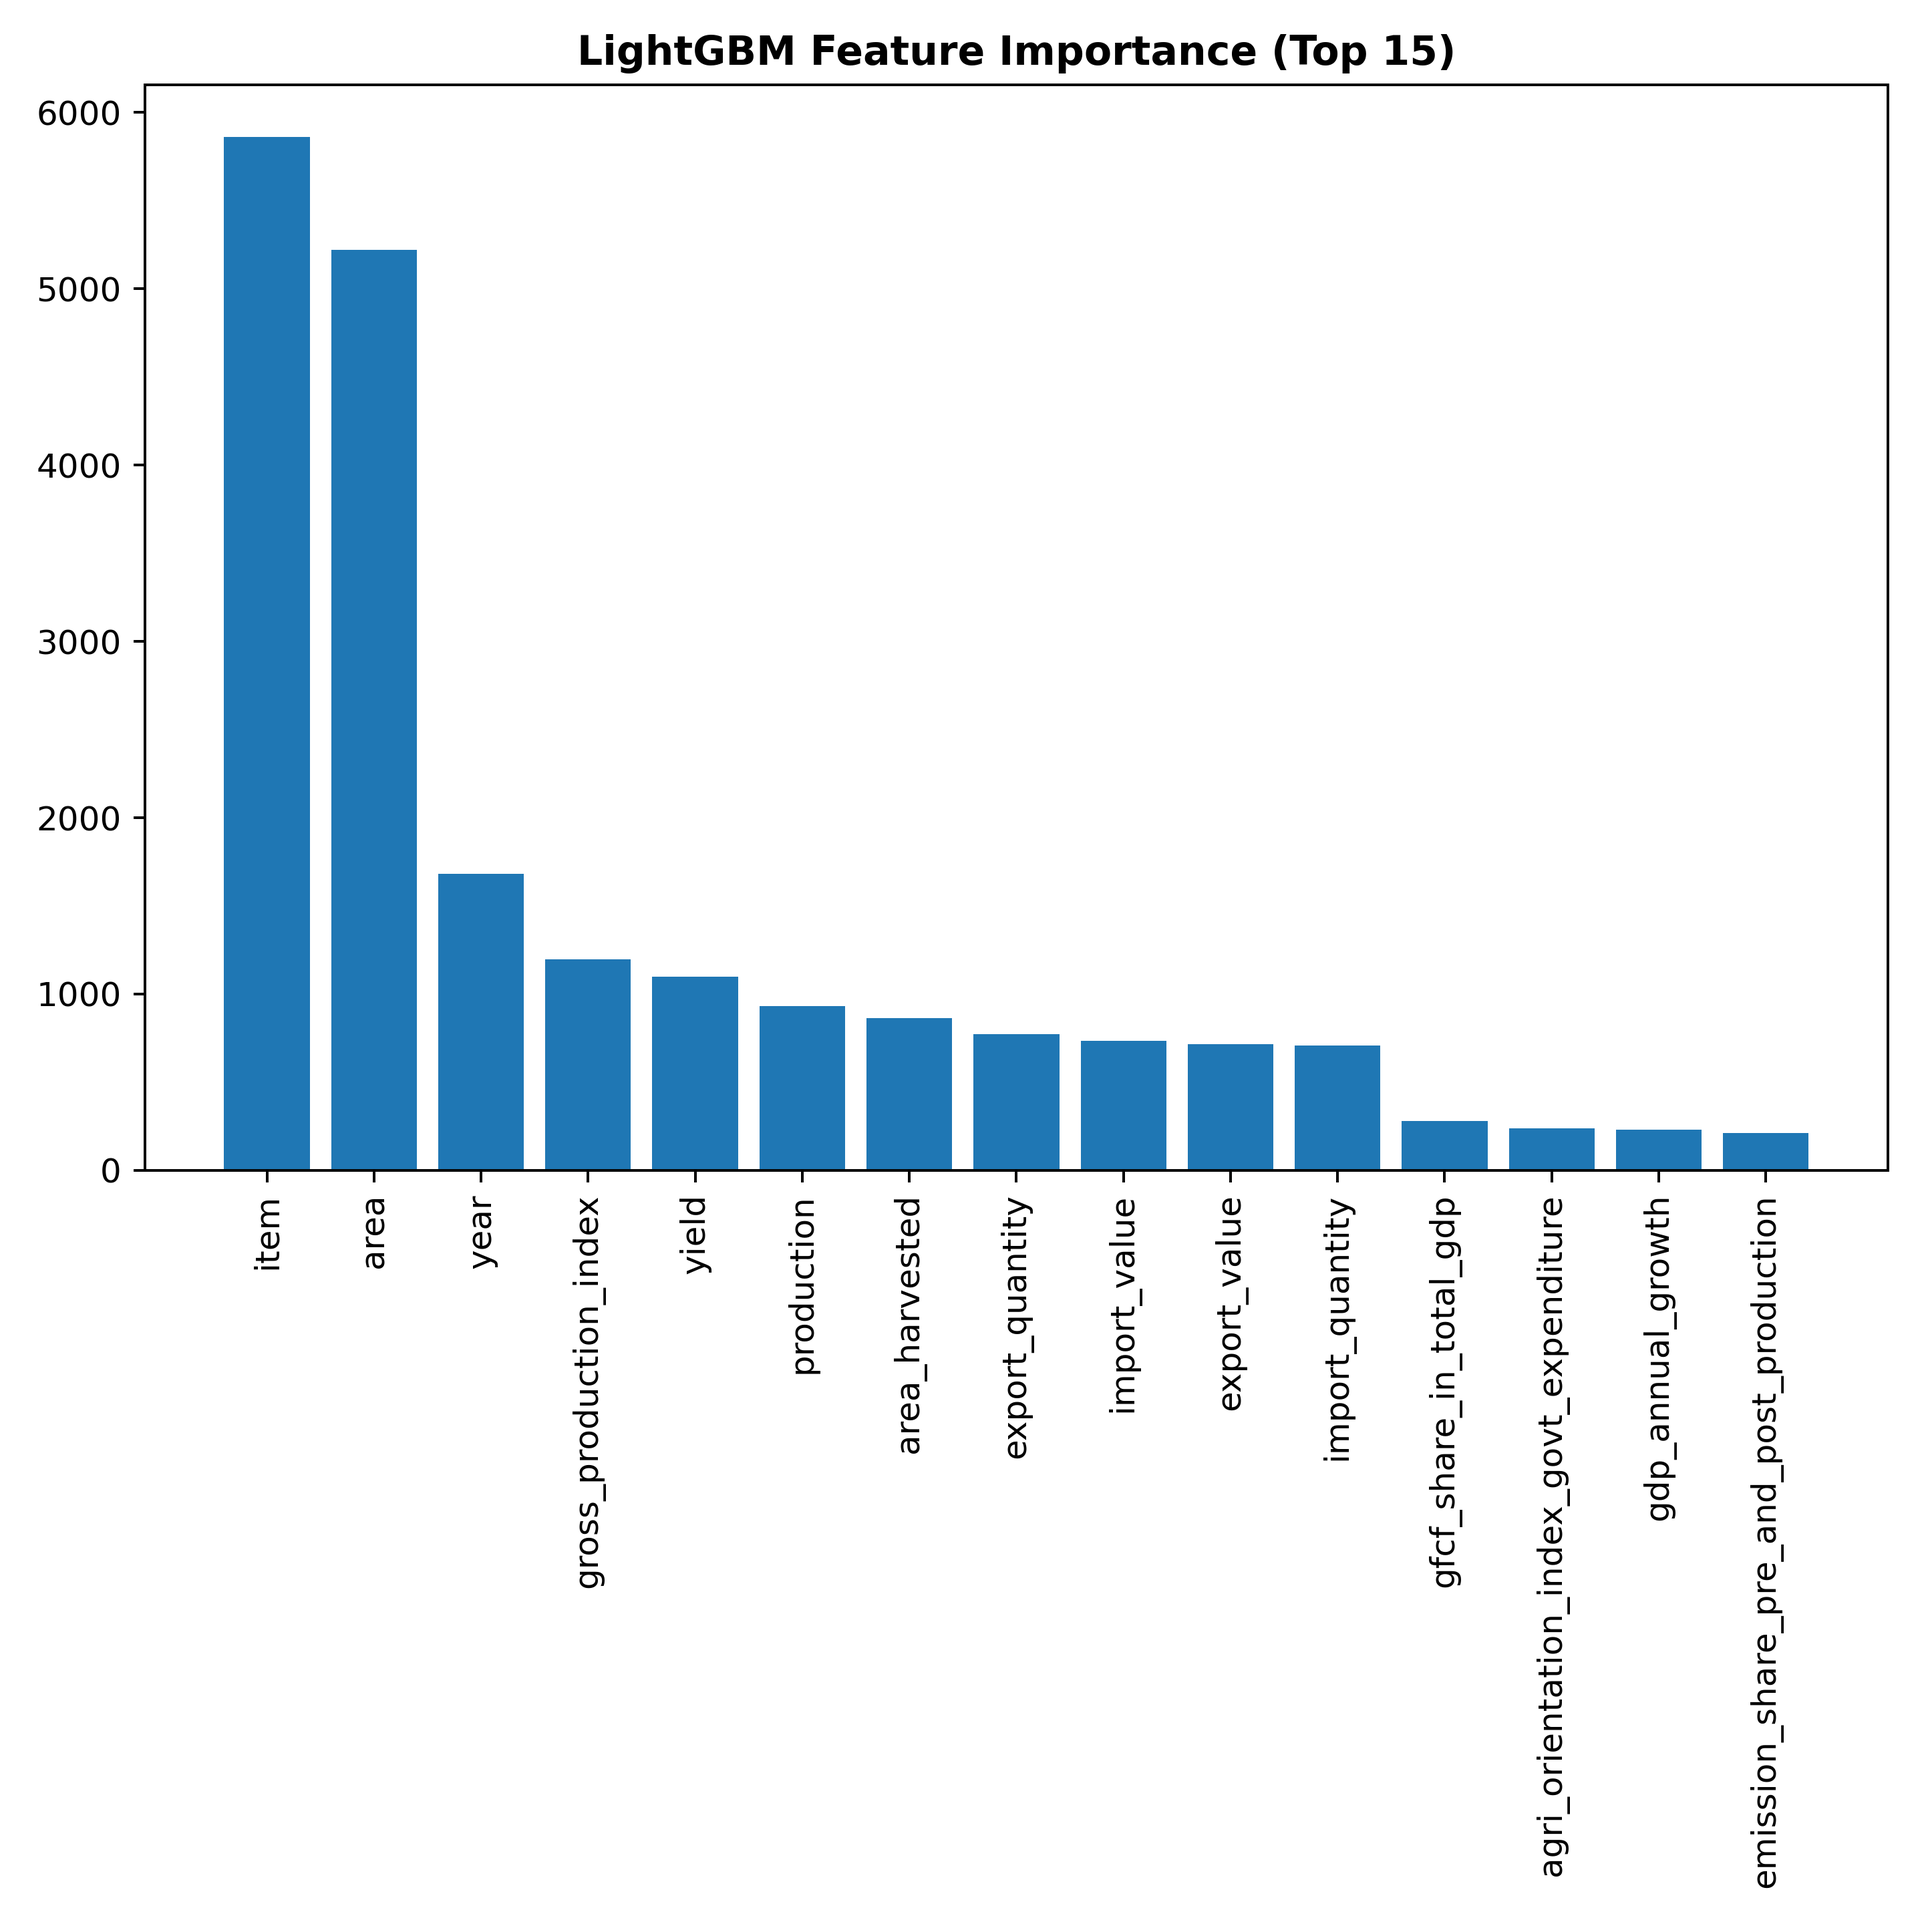
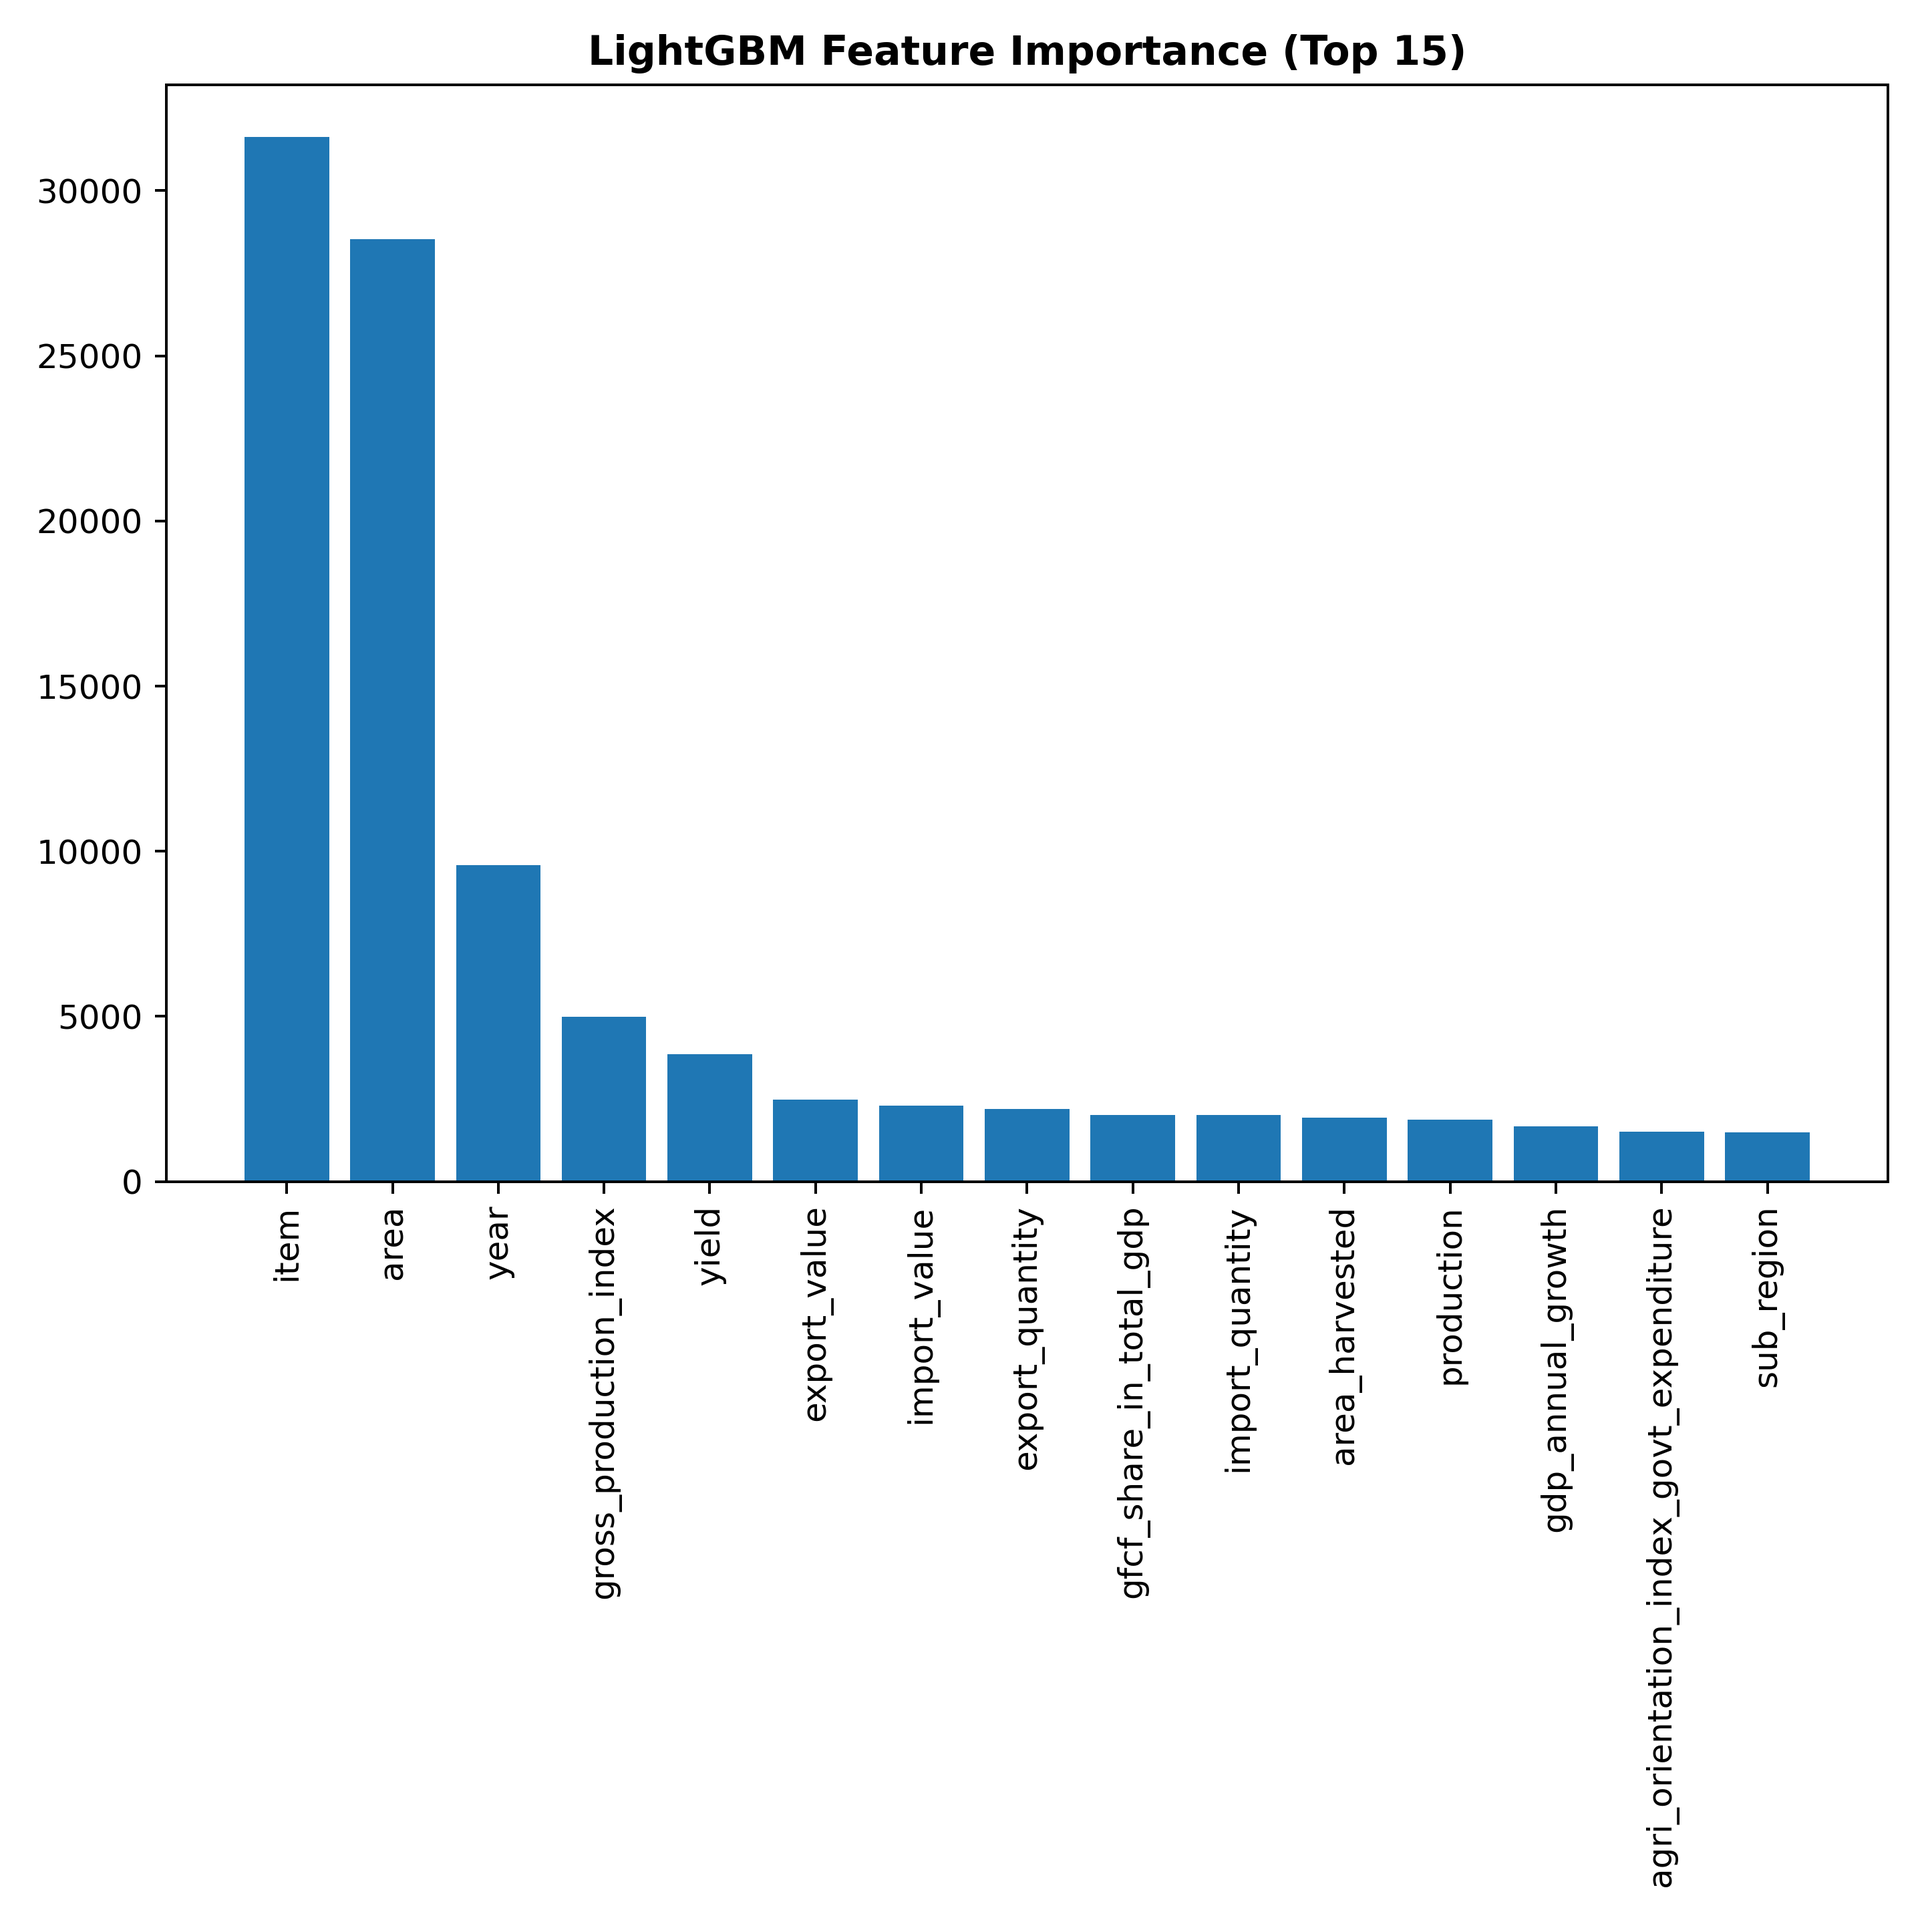
LightGBM.py file edited

diff --git a/LightGBM.py b/LightGBM.py
@@ -48,8 +48,18 @@ y_test = test_set[target]
 model = LGBMRegressor(
     objective='regression',
     n_estimators=5000,
-    verbosity=-1,
-    seed=42
+    learning_rate=0.03,
+    num_leaves=30,
+    max_depth=6,
+    min_data_in_leaf=100,
+    feature_fraction=0.8,
+    bagging_fraction=0.8,
+    bagging_freq=2,
+    lambda_l1=2,
+    lambda_l2=2,
+    max_bins=80,
+    random_state=42,
+    verbosity=-1
 )
 
 # Fit the model with early stopping
@@ -88,12 +98,14 @@ def model_eval(x, y, model, set_name, model_name):
 
 
 # -------------- Function for Plotting: True VS Predicted ---------------------
-def make_plot(y_true, y_pred, tuning_status):
+def make_plot(x, y, model):
+    y_true = y
+    y_pred = model.predict(x, raw_score=False)
     # Plot the true versus predicted values
     plt.scatter(y_true, y_pred, alpha=0.5)
     plt.xlabel('True PPI Values')
     plt.ylabel('Predicted PPI Values')
-    plt.title(f'LightGBM Model ({tuning_status}): True VS Predicted', fontweight='bold')
+    plt.title(f'LightGBM Model: True VS Predicted', fontweight='bold')
 
     # Add 45° reference line (y = x)
     min_val = min(y_true.min(), y_pred.min())
@@ -101,19 +113,20 @@ def make_plot(y_true, y_pred, tuning_status):
     plt.plot([min_val, max_val], [min_val, max_val], 'b--', linewidth=1.5, label='Perfect Prediction')
 
     plt.legend()
-    plt.savefig(f'plots/LightGBM_true_vs_predicted_({tuning_status}).png', dpi=360, bbox_inches='tight')
+    plt.savefig(f'plots/LightGBM_true_vs_predicted.png', dpi=360, bbox_inches='tight')
     plt.show()
 
-# -------------------- Feature Importance Plot --------------------------------- 
-imp = pd.Series(model.feature_importances_, index = X_train.columns).sort_values(ascending=False)[:15]
+# ------------------- Function: Feature Importance Plot ----------------------- 
+def feat_imp(model, x_train):
+    imp = pd.Series(model.feature_importances_, index = x_train.columns).sort_values(ascending=False)[:15]
 
-plt.figure(figsize=(8,8))
-plt.bar(x=imp.index, height=imp.values, data=imp)
-plt.title("LightGBM Feature Importance (Top 15)", fontweight='bold')
-plt.xticks(rotation=90)
-plt.tight_layout()
-plt.savefig('plots/LightGBM_feature_imp_top15.png', dpi=360)
-plt.show()
+    plt.figure(figsize=(8,8))
+    plt.bar(x=imp.index, height=imp.values, data=imp)
+    plt.title("LightGBM Feature Importance (Top 15)", fontweight='bold')
+    plt.xticks(rotation=90)
+    plt.tight_layout()
+    plt.savefig('plots/LightGBM_feature_imp_top15.png', dpi=360)
+    plt.show()
 
 
 
@@ -198,8 +211,61 @@ results_val_df = pd.DataFrame(
     )
 
 
+# ------- Re-fitting best model on data from 2001-2022 and test on 2023 --------
+df_1 = df.copy()
 
+# Categorical columns
+categorical_cols = ['area', 'item', 'region', 'sub_region']
 
+# Explicitly set categoricals 
+for col in categorical_cols:
+    if col in df_1.columns:
+        df_1[col] = df_1[col].astype('category')
 
+# Training data
+train_set = df_1.loc[df_1['year'] < 2023]
+X_train = train_set.drop('producer_price_index', axis=1)
+y_train = train_set['producer_price_index']
 
+# Testing data
+test_set = df_1.loc[df_1["year"] == 2023]
+X_test = test_set.drop('producer_price_index', axis=1)
+y_test = test_set['producer_price_index']
 
+# Define model
+model_best = LGBMRegressor(
+    objective='regression',
+    n_estimators=5000,
+    learning_rate=0.03,
+    num_leaves=30,
+    max_depth=6,
+    min_data_in_leaf=100,
+    feature_fraction=0.8,
+    bagging_fraction=0.8,
+    bagging_freq=2,
+    lambda_l1=2,
+    lambda_l2=2,
+    max_bins=80,
+    random_state=42,
+    verbosity=-1
+)
+
+# Fitting model
+model_best.fit(
+    X_train, y_train,
+    eval_set=[(X_test, y_test)],
+    eval_metric='rmse',
+    callbacks=[lgb.early_stopping(stopping_rounds=200, verbose=False)]
+)
+
+# Model evaluation on Training set
+model_eval(X_train, y_train, model_best, "Training set", "LightGBM")
+
+# Model evaluation on Testing set
+model_eval(X_test, y_test, model_best, "Testing set", "LightGBM")
+
+# Plot of True versus Predicted
+make_plot(X_test, y_test, model_best)
+
+# Feature importance plot
+feat_imp(model_best, X_train)

diff --git a/Readme.md b/Readme.md
@@ -1,4 +1,4 @@
-# 🌾 Farmer Producer Prices Prediction (FAOSTAT)
+# 🌾 Farmer Prices Prediction (FAOSTAT)
 
 Predicting agricultural Producer Price Index (PPI) for the year 2023 across countries and crops using multi-panel FAOSTAT data.
 
@@ -191,15 +191,52 @@ For details click [here](https://github.com/Leonidus1995/farmer-prices-forecasti
 
 **Target:** producer_price_index (PPI)
 
-**Baseline:** Mean of prior three years (2020–2022) per country-item.
+**Baseline:** 
+
+- Mean of prior three years (2020–2022) per country-item.
+
+- Easy to compute and provides a yardstick for more complex models.
 
 - Code: [base_model.py](https://github.com/Leonidus1995/farmer-prices-forecasting/blob/main/base_model.py)
 
-**ML models:** Gradient-boosted trees (LightGBM) with cross-sectional signals.
+**Gradient-boosted trees (LightGBM)** with cross-sectional signals:
+
+- Trained on data from 2001-2021, with 2022 held out for validation and hyperparameter tuning (manual grid search).
+
+- The best performing model was retrained on combined 2001-2022 data and applied to predict 2023 PPI values.
+
+- Hyperparams from best model: learning_rate=0.03, num_boost_round=5000 (early stop), num_leaves≈30, max_depth=6, min_data_in_leaf=100, feature_fraction=0.8, bagging_fraction=0.8, bagging_freq=2, reg_alpha=2, reg_lambda=2, max_bin=80.
 
 - Code: [LightGBM.py](https://github.com/Leonidus1995/farmer-prices-forecasting/blob/main/LightGBM.py)
 
-- Model metrics: 
+**Neural Net Model:** 
+
+- currently working on.........
+
+## Model Evaluation:
+
+**Baseline:**
+
+- Performance on 2023 test set: **RMSE = 127.61; MAE = 43.49; R² = 0.56**
+
+- True vs. Predicted plot: [here](https://github.com/Leonidus1995/farmer-prices-forecasting/blob/main/LightGBM.py)
+
+**LightGBM:**
+
+- Training fit: RMSE = 17.78; MAE = 10.78; R² = 0.91
+
+- Performance on 2023 test set: **RMSE = 101.28; MAE = 38.44; R² = 0.73**
+
+- Errors widen at very high PPI values (volatility/extremes)
+
+- 
+
+**Neural Net:**
+
+- currently working on .......
+
+
+
 
 
 
